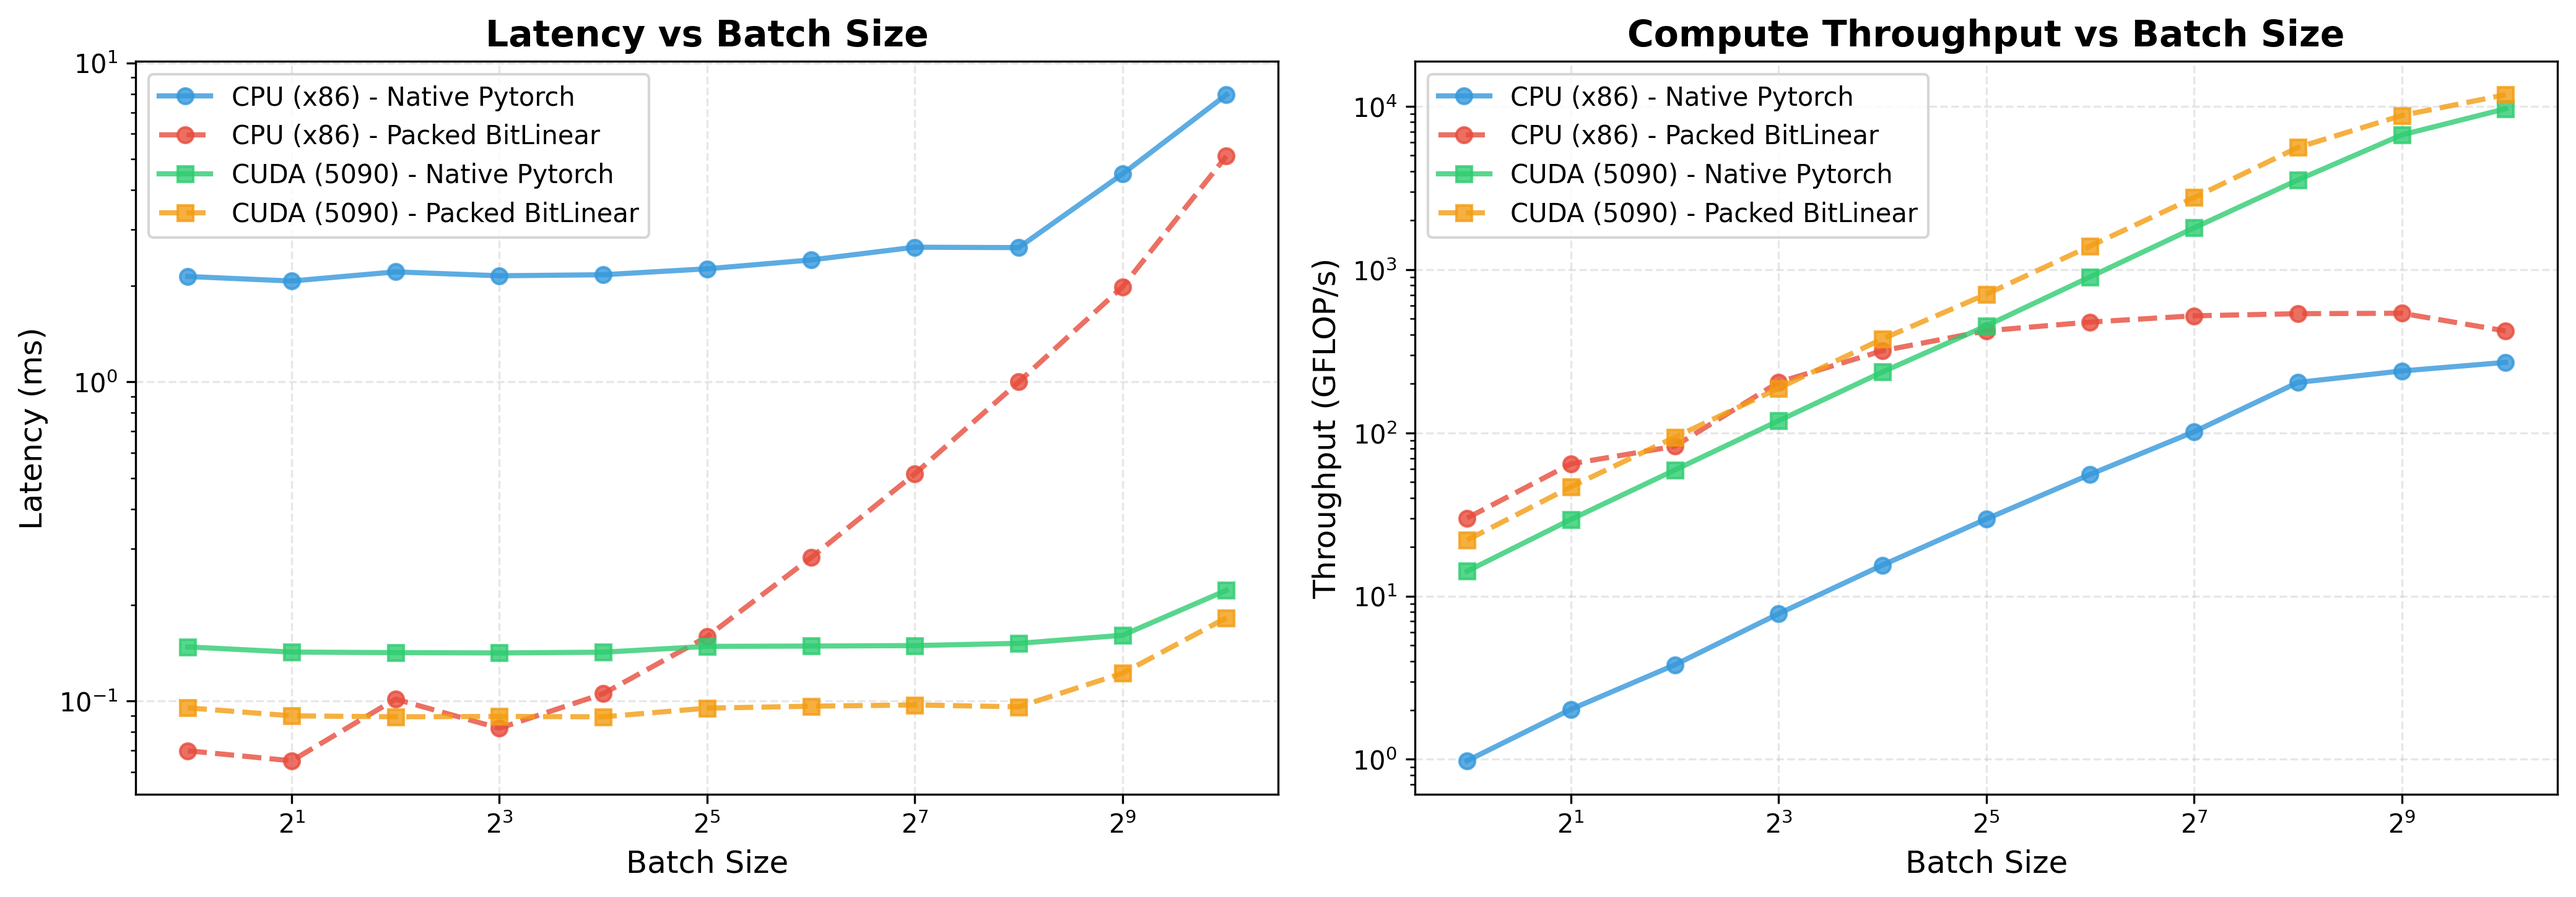
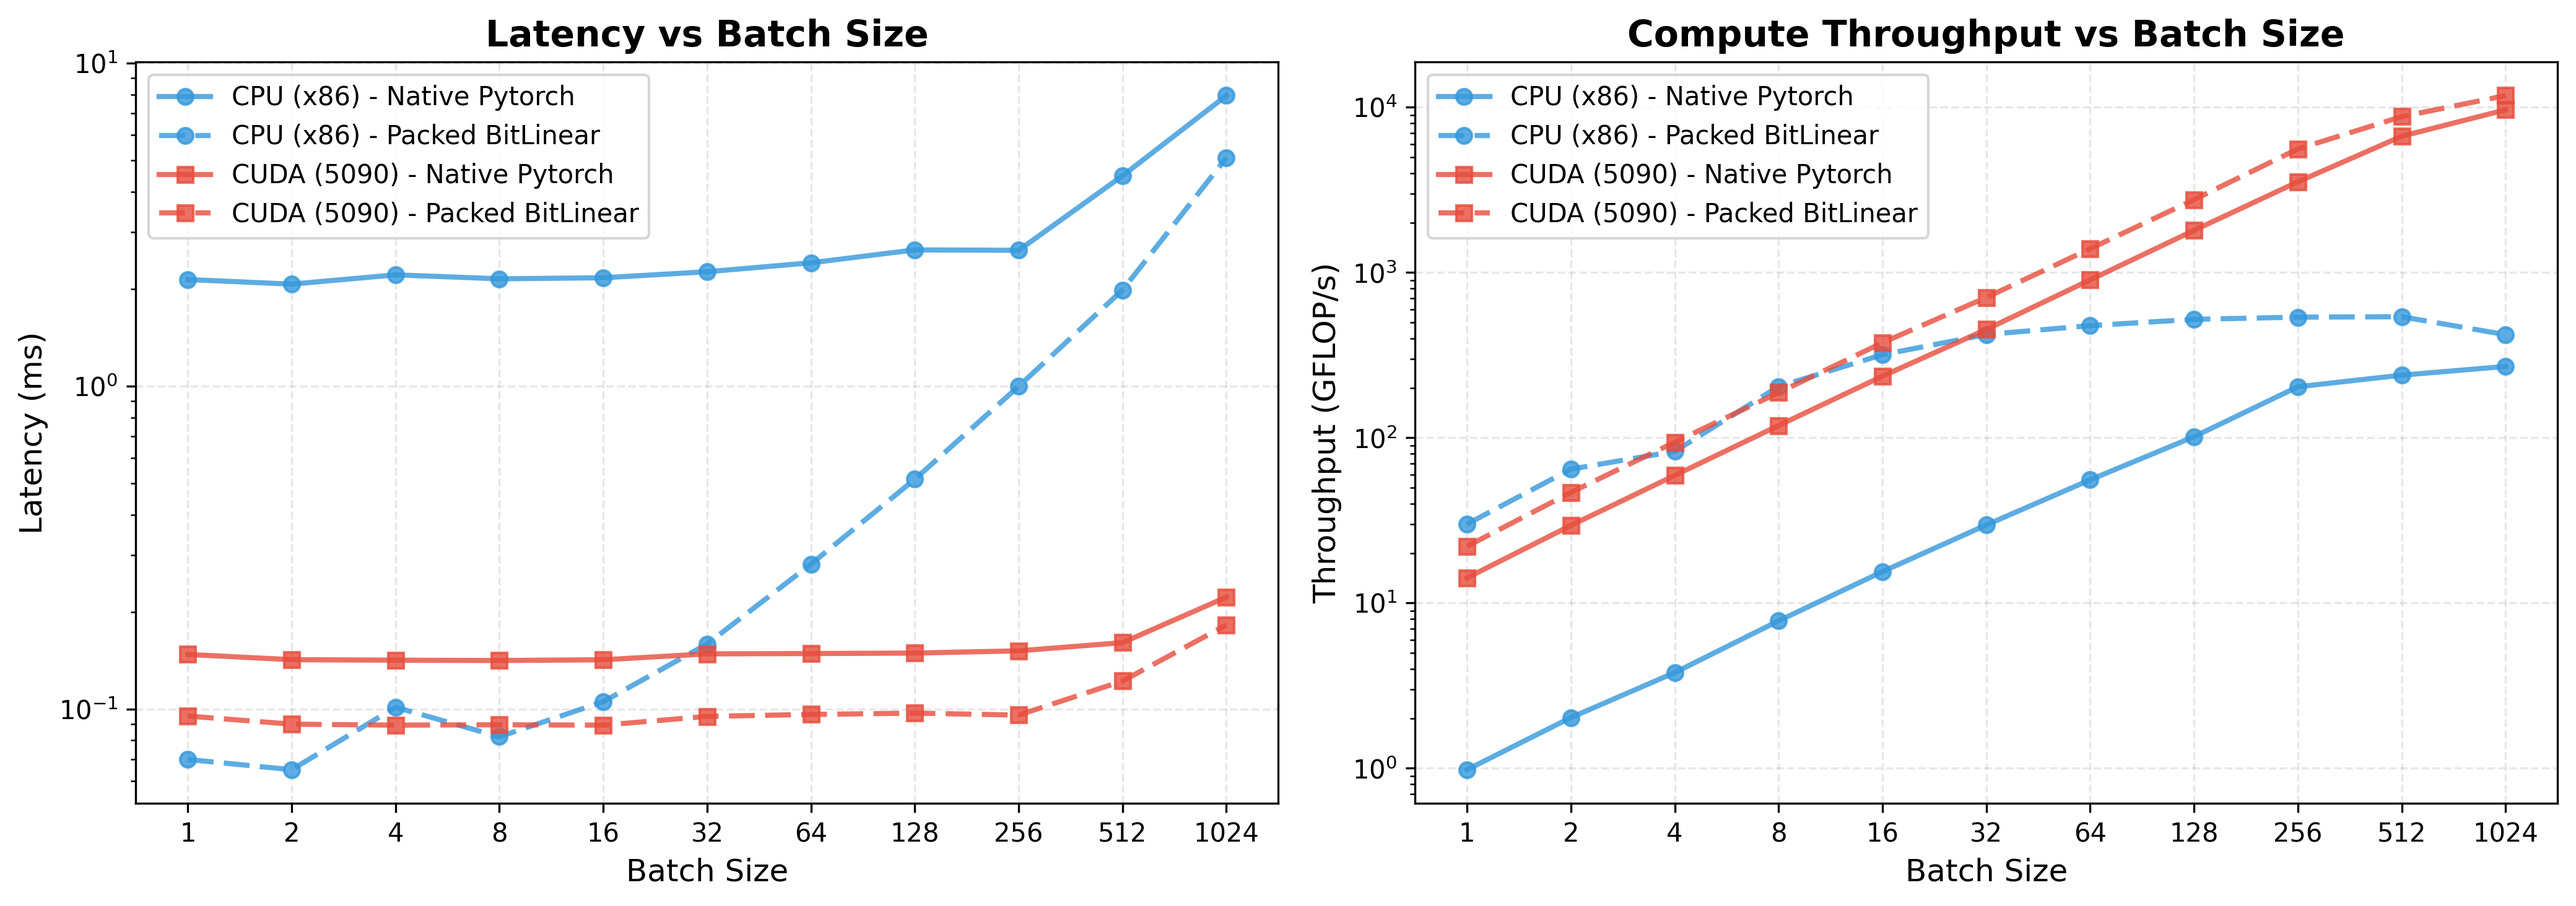
adding code

diff --git a/profile/plot.py b/profile/plot.py
@@ -19,13 +19,12 @@ def plot_latency_comparison(all_results: list, output_path: str, labels: list = 
         all_results = [all_results]
         labels = labels or ["Device"]
     
-    # Define color schemes for different devices
-    color_schemes = [
-        {'eval': '#3498db', 'deploy': '#e74c3c'},  # Blue/Red (default)
-        {'eval': '#2ecc71', 'deploy': '#f39c12'},  # Green/Orange
-        {'eval': '#9b59b6', 'deploy': '#e67e22'},  # Purple/Orange
-        {'eval': '#1abc9c', 'deploy': '#e74c3c'},  # Teal/Red
-    ]
+    # Different colors for CPU vs CUDA, same line styles for native vs packed
+    # Native PyTorch: solid line, Packed BitLinear: dashed line (more prominent)
+    device_colors = {
+        'CPU': '#3498db',    # Blue
+        'CUDA': '#e74c3c',   # Red
+    }
     
     markers = ['o', 's', 'D', '^']
     
@@ -34,8 +33,10 @@ def plot_latency_comparison(all_results: list, output_path: str, labels: list = 
     
     # Plot data for each device
     for idx, (results, label) in enumerate(zip(all_results, labels)):
-        colors = color_schemes[idx % len(color_schemes)]
         marker = markers[idx % len(markers)]
+        
+        # Get color for this device (default to first color if not found)
+        device_color = device_colors.get(label, '#3498db')
         
         # Separate eval and deploy results
         eval_results = [r for r in results if r["mode"] == "eval"]
@@ -61,14 +62,15 @@ def plot_latency_comparison(all_results: list, output_path: str, labels: list = 
             batch_sizes, eval_latencies,
             marker=marker, linewidth=2, markersize=6,
             label=f'{label_str} - Native Pytorch',
-            color=colors['eval'], alpha=0.8
+            color=device_color, alpha=0.8,
+            linestyle='-'
         )
         ax1.plot(
             batch_sizes, deploy_latencies,
             marker=marker, linewidth=2, markersize=6,
             label=f'{label_str} - Packed BitLinear',
-            color=colors['deploy'], alpha=0.8,
-            linestyle='--'
+            color=device_color, alpha=0.8,
+            linestyle='--', dashes=(5, 2)
         )
         
         # Plot 2: GFLOP/s vs Batch Size
@@ -76,14 +78,15 @@ def plot_latency_comparison(all_results: list, output_path: str, labels: list = 
             batch_sizes, eval_gflops,
             marker=marker, linewidth=2, markersize=6,
             label=f'{label_str} - Native Pytorch',
-            color=colors['eval'], alpha=0.8
+            color=device_color, alpha=0.8,
+            linestyle='-'
         )
         ax2.plot(
             batch_sizes, deploy_gflops,
             marker=marker, linewidth=2, markersize=6,
             label=f'{label_str} - Packed BitLinear',
-            color=colors['deploy'], alpha=0.8,
-            linestyle='--'
+            color=device_color, alpha=0.8,
+            linestyle='--', dashes=(5, 2)
         )
     
     # Configure Plot 1 (Latency)
@@ -92,6 +95,10 @@ def plot_latency_comparison(all_results: list, output_path: str, labels: list = 
     ax1.set_title('Latency vs Batch Size', fontsize=14, fontweight='bold')
     ax1.set_xscale('log', base=2)
     ax1.set_yscale('log')
+    # Set explicit ticks to show actual batch size values
+    batch_size_ticks = [1, 2, 4, 8, 16, 32, 64, 128, 256, 512, 1024]
+    ax1.set_xticks(batch_size_ticks)
+    ax1.set_xticklabels([str(bs) for bs in batch_size_ticks])
     ax1.grid(True, alpha=0.3, linestyle='--')
     ax1.legend(fontsize=10, loc='best')
     
@@ -101,6 +108,9 @@ def plot_latency_comparison(all_results: list, output_path: str, labels: list = 
     ax2.set_title('Compute Throughput vs Batch Size', fontsize=14, fontweight='bold')
     ax2.set_xscale('log', base=2)
     ax2.set_yscale('log')
+    # Set explicit ticks to show actual batch size values
+    ax2.set_xticks(batch_size_ticks)
+    ax2.set_xticklabels([str(bs) for bs in batch_size_ticks])
     ax2.grid(True, alpha=0.3, linestyle='--')
     ax2.legend(fontsize=10, loc='best')
     
@@ -117,13 +127,12 @@ def plot_throughput_comparison(all_results: list, output_path: str, labels: list
         all_results = [all_results]
         labels = labels or ["Device"]
     
-    # Define color schemes for different devices
-    color_schemes = [
-        {'eval': '#3498db', 'deploy': '#e74c3c'},  # Blue/Red (default)
-        {'eval': '#2ecc71', 'deploy': '#f39c12'},  # Green/Orange
-        {'eval': '#9b59b6', 'deploy': '#e67e22'},  # Purple/Orange
-        {'eval': '#1abc9c', 'deploy': '#e74c3c'},  # Teal/Red
-    ]
+    # Different colors for CPU vs CUDA, same line styles for native vs packed
+    # Native PyTorch: solid line, Packed BitLinear: dashed line (more prominent)
+    device_colors = {
+        'CPU': '#3498db',    # Blue
+        'CUDA': '#e74c3c',   # Red
+    }
     
     markers = ['o', 's', 'D', '^']
     
@@ -132,8 +141,10 @@ def plot_throughput_comparison(all_results: list, output_path: str, labels: list
     
     # Plot data for each device
     for idx, (results, label) in enumerate(zip(all_results, labels)):
-        colors = color_schemes[idx % len(color_schemes)]
         marker = markers[idx % len(markers)]
+        
+        # Get color for this device (default to first color if not found)
+        device_color = device_colors.get(label, '#3498db')
         
         # Separate eval and deploy results
         eval_results = [r for r in results if r["mode"] == "eval"]
@@ -148,17 +159,19 @@ def plot_throughput_comparison(all_results: list, output_path: str, labels: list
         
         # Plot 1: Throughput (samples/sec)
         ax1.plot(batch_sizes, eval_throughput, marker=marker, linewidth=2, 
-                 markersize=6, label=f'{label} - Native Pytorch', color=colors['eval'], alpha=0.8)
+                 markersize=6, label=f'{label} - Native Pytorch', color=device_color, alpha=0.8,
+                 linestyle='-')
         ax1.plot(batch_sizes, deploy_throughput, marker=marker, linewidth=2, 
-                 markersize=6, label=f'{label} - Packed BitLinear', color=colors['deploy'], alpha=0.8,
-                 linestyle='--')
+                 markersize=6, label=f'{label} - Packed BitLinear', color=device_color, alpha=0.8,
+                 linestyle='--', dashes=(5, 2))
         
         # Plot 2: GFLOP/s
         ax2.plot(batch_sizes, eval_gflops, marker=marker, linewidth=2, 
-                 markersize=6, label=f'{label} - Native Pytorch', color=colors['eval'], alpha=0.8)
+                 markersize=6, label=f'{label} - Native Pytorch', color=device_color, alpha=0.8,
+                 linestyle='-')
         ax2.plot(batch_sizes, deploy_gflops, marker=marker, linewidth=2, 
-                 markersize=6, label=f'{label} - Packed BitLinear', color=colors['deploy'], alpha=0.8,
-                 linestyle='--')
+                 markersize=6, label=f'{label} - Packed BitLinear', color=device_color, alpha=0.8,
+                 linestyle='--', dashes=(5, 2))
     
     # Configure Plot 1
     ax1.set_xlabel('Batch Size', fontsize=12)
@@ -166,6 +179,10 @@ def plot_throughput_comparison(all_results: list, output_path: str, labels: list
     ax1.set_title('Throughput vs Batch Size', fontsize=14, fontweight='bold')
     ax1.set_xscale('log', base=2)
     ax1.set_yscale('log')
+    # Set explicit ticks to show actual batch size values
+    batch_size_ticks = [1, 2, 4, 8, 16, 32, 64, 128, 256, 512, 1024]
+    ax1.set_xticks(batch_size_ticks)
+    ax1.set_xticklabels([str(bs) for bs in batch_size_ticks])
     ax1.grid(True, alpha=0.3, linestyle='--')
     ax1.legend(fontsize=10, loc='best')
     
@@ -175,6 +192,9 @@ def plot_throughput_comparison(all_results: list, output_path: str, labels: list
     ax2.set_title('Compute Performance', fontsize=14, fontweight='bold')
     ax2.set_xscale('log', base=2)
     ax2.set_yscale('log')
+    # Set explicit ticks to show actual batch size values
+    ax2.set_xticks(batch_size_ticks)
+    ax2.set_xticklabels([str(bs) for bs in batch_size_ticks])
     ax2.grid(True, alpha=0.3, linestyle='--')
     ax2.legend(fontsize=10, loc='best')
     
@@ -221,6 +241,10 @@ def plot_memory_comparison(results: list, output_path: str) -> None:
     ax1.set_ylabel('Layer Memory (MB)', fontsize=12)
     ax1.set_title('Static Layer Memory', fontsize=14, fontweight='bold')
     ax1.set_xscale('log', base=2)
+    # Set explicit ticks to show actual batch size values
+    batch_size_ticks = [1, 2, 4, 8, 16, 32, 64, 128, 256, 512, 1024]
+    ax1.set_xticks(batch_size_ticks)
+    ax1.set_xticklabels([str(bs) for bs in batch_size_ticks])
     ax1.grid(True, alpha=0.3, linestyle='--')
     ax1.legend(fontsize=11)
     
@@ -241,6 +265,10 @@ def plot_memory_comparison(results: list, output_path: str) -> None:
         ax2.set_ylabel('Runtime Memory (MB)', fontsize=12)
         ax2.set_title('GPU Runtime Memory (Allocated)', fontsize=14, fontweight='bold')
         ax2.set_xscale('log', base=2)
+        # Set explicit ticks to show actual batch size values
+        batch_size_ticks = [1, 2, 4, 8, 16, 32, 64, 128, 256, 512, 1024]
+        ax2.set_xticks(batch_size_ticks)
+        ax2.set_xticklabels([str(bs) for bs in batch_size_ticks])
         ax2.grid(True, alpha=0.3, linestyle='--')
         ax2.legend(fontsize=11)
         
@@ -253,6 +281,9 @@ def plot_memory_comparison(results: list, output_path: str) -> None:
         ax3.set_ylabel('Peak Memory (MB)', fontsize=12)
         ax3.set_title('GPU Peak Memory Usage', fontsize=14, fontweight='bold')
         ax3.set_xscale('log', base=2)
+        # Set explicit ticks to show actual batch size values
+        ax3.set_xticks(batch_size_ticks)
+        ax3.set_xticklabels([str(bs) for bs in batch_size_ticks])
         ax3.grid(True, alpha=0.3, linestyle='--')
         ax3.legend(fontsize=11)
         
@@ -397,6 +428,10 @@ def plot_static_memory(all_results: list, output_path: str, labels: list = None)
         
         ax_speedup.axhline(y=1.0, color='gray', linestyle='--', linewidth=1, alpha=0.5)
         ax_speedup.set_xscale('log', base=2)
+        # Set explicit ticks to show actual batch size values
+        batch_size_ticks = [1, 2, 4, 8, 16, 32, 64, 128, 256, 512, 1024]
+        ax_speedup.set_xticks(batch_size_ticks)
+        ax_speedup.set_xticklabels([str(bs) for bs in batch_size_ticks])
         ax_speedup.set_xlabel('Batch Size', fontsize=12)
         ax_speedup.set_ylabel('Speedup (Native Pytorch / Packed BitLinear)', fontsize=12)
         ax_speedup.set_title('Latency Speedup vs Batch Size', fontsize=14, fontweight='bold')

diff --git a/profile/test_perf.py b/profile/test_perf.py
@@ -1,0 +1,140 @@
+import argparse
+import time
+
+import torch
+
+import bitlinear as bitlinear_module
+from bitlinear import BitLinear
+
+
+IN_FEATURES = 1024
+OUT_FEATURES = 1024
+WARMUP = 5
+ITERS = 20
+
+
+def _synchronize_if_needed(device: torch.device) -> None:
+    if device.type == "cuda":
+        torch.cuda.synchronize()
+
+
+def benchmark(layer: BitLinear, x: torch.Tensor, label: str) -> None:
+    device = x.device
+    batch_size = x.shape[0]
+    in_features = getattr(layer, "in_features", IN_FEATURES)
+    out_features = getattr(layer, "out_features", OUT_FEATURES)
+    ops_per_forward = 2 * batch_size * in_features * out_features
+
+    # Warmup to avoid cold-start effects.
+    with torch.inference_mode():
+        for _ in range(WARMUP):
+            layer(x)
+        _synchronize_if_needed(device)
+
+    # Timed runs.
+    start = time.perf_counter()
+    with torch.inference_mode():
+        for _ in range(ITERS):
+            layer(x)
+        _synchronize_if_needed(device)
+    duration = time.perf_counter() - start
+
+    avg_ms = (duration / ITERS) * 1e3
+    throughput = (batch_size * ITERS) / duration
+    gflops = (ops_per_forward * ITERS) / duration / 1e9
+    print(
+        f"{label}: {avg_ms:.3f} ms/run, {throughput:.2f} samples/s, {gflops:.2f} GFLOP/s"
+    )
+
+
+def parse_args() -> argparse.Namespace:
+    parser = argparse.ArgumentParser(description="Benchmark BitLinear throughput.")
+    parser.add_argument(
+        "--device",
+        default=None,
+        help=(
+            "Training device (e.g. cpu, cuda, cuda:1, mps). Defaults to cpu to match "
+            "the optimized inference path."
+        ),
+    )
+    parser.add_argument(
+        "--deploy-device",
+        default=None,
+        help=(
+            "Device to benchmark the deployed inference path on. Defaults to --device."
+        ),
+    )
+    return parser.parse_args()
+
+
+def resolve_device(
+    device_arg: str | None, *, default: torch.device | None = None
+) -> torch.device:
+    """
+    Resolve the device to run on.
+
+    NOTE: The optimized C++ BitLinear kernel in this repo is CPU-only. While
+    training mode can run on CUDA via the pure-Python implementation, the
+    deployed inference path will error out if you try to use CUDA tensors.
+    To keep the perf script robust across machines with/without GPUs, we
+    default to CPU here.
+    """
+    if device_arg is None:
+        if default is not None:
+            return default
+        return torch.device("cpu")
+    if device_arg == "cpu":
+        return torch.device("cpu")
+
+    try:
+        device = torch.device(device_arg)
+    except (TypeError, RuntimeError) as exc:
+        raise ValueError(f"Invalid device specification: {device_arg}") from exc
+
+    if device.type == "cuda" and not torch.cuda.is_available():
+        raise RuntimeError("CUDA requested but torch.cuda.is_available() is False")
+    if device.type == "mps" and not torch.backends.mps.is_available():
+        raise RuntimeError("MPS requested but torch.backends.mps.is_available() is False")
+
+    return device
+
+
+def main() -> None:
+    args = parse_args()
+    train_device = resolve_device(args.device)
+    deploy_device = resolve_device(args.deploy_device, default=train_device)
+
+    if (
+        deploy_device.type != "cpu"
+        and bitlinear_module.HAS_BITLINEAR
+        and not getattr(bitlinear_module, "_has_warned_fallback", False)
+    ):
+        print(
+            "NOTE: Forcing fallback Python implementation for deployment benchmarks "
+            f"to honor deploy device '{deploy_device}'."
+        )
+        bitlinear_module.HAS_BITLINEAR = False
+        bitlinear_module._has_warned_fallback = True
+
+    for batch_size in (1, 1024):
+        print(f"\n=== batch_size={batch_size} ===")
+        layer = BitLinear(IN_FEATURES, OUT_FEATURES).to(train_device)
+        x = torch.randn(
+            batch_size, IN_FEATURES, device=train_device, dtype=torch.float32
+        )
+
+        benchmark(
+            layer, x, f"Training-mode (before deployment), batch={batch_size}"
+        )
+
+        if train_device != deploy_device:
+            _synchronize_if_needed(train_device)
+            layer = layer.to(deploy_device)
+            x = x.to(deploy_device)
+
+        layer.deploy()
+        benchmark(layer, x, f"Deployment-mode (after deployment), batch={batch_size}")
+
+
+if __name__ == "__main__":
+    main()
